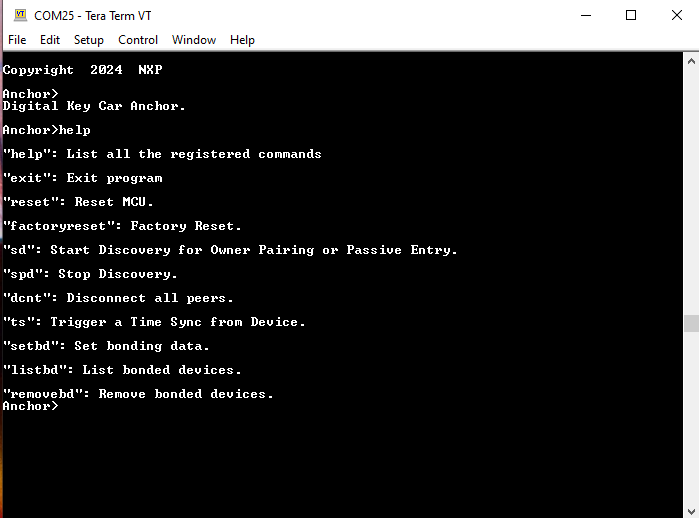
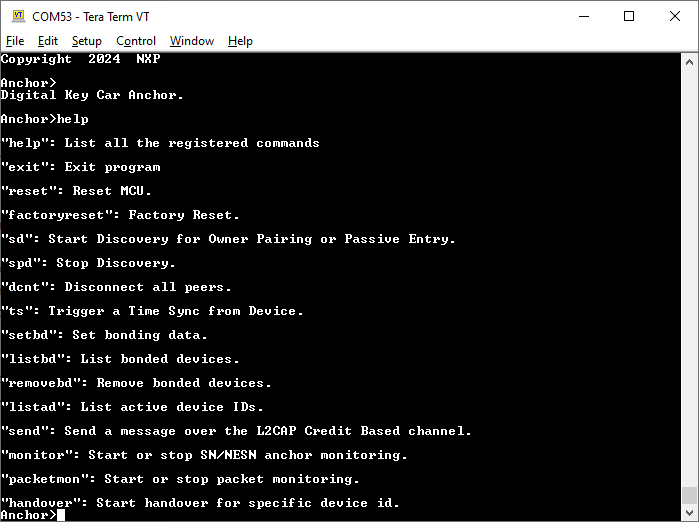
Pull request #3511: [BLUETOOTH-15418] Applications: Added shell commands to list peer devices and trigger connection handover.
Merge in CONNINT/bluetooth_public from feature/BLUETOOTH-15418-ccc-app-handover-add-shell-commands to develop/main

Squashed commit of the following:

commit 11905b5286c848907460e26f8840def160e9f7e3
Author: Cosmin Grumei <cosmin-teodor.grumei@nxp.com>
Date:   Thu May 15 15:03:05 2025 +0300

    [BLUETOOTH-15418] Documentation: Updated documentation with handover and listad commands

commit 2874e0d39a034dedc02935a712a55ca2f316908e
Author: Cosmin Grumei <cosmin-teodor.grumei@nxp.com>
Date:   Tue May 13 11:45:13 2025 +0300

    [BLUETOOTH-15418] Applications: Removed whitespaces, fixed typos and print shell prompt after devices are listed.

commit 74971d2e16cd6a14c1b8da997c81e0d26ce62b82
Author: Cosmin Grumei <cosmin-teodor.grumei@nxp.com>
Date:   Mon May 12 16:35:00 2025 +0300

    [BLUETOOTH-15418] Applications: Added shell commands to list peer devices and trigger connection handover.

Changed region(s): [[0.0, 0.0, 1.0, 1.0], [0.1202, 0.8649, 0.5708, 0.9266], [0.8712, 0.0, 0.9313, 0.0309]]

diff --git a/examples/digital_key_car_anchor/shell_digital_key_car_anchor.c b/examples/digital_key_car_anchor/shell_digital_key_car_anchor.c
@@ -5,7 +5,7 @@
 /*! *********************************************************************************
 * \file shell_digital_key_car_anchor.c
 *
-* Copyright 2021-2024 NXP
+* Copyright 2021-2025 NXP
 *
 * SPDX-License-Identifier: BSD-3-Clause
 ********************************************************************************** */
@@ -59,11 +59,12 @@ static shell_status_t ShellTriggerTimeSync_Command(shell_handle_t shellHandle, i
 static shell_status_t ShellSetBondingData_Command(shell_handle_t shellHandle, int32_t argc, char * argv[]);
 static shell_status_t ShellListBondedDev_Command(shell_handle_t shellHandle, int32_t argc, char * argv[]);
 static shell_status_t ShellRemoveBondedDev_Command(shell_handle_t shellHandle, int32_t argc, char * argv[]);
-
+static shell_status_t ShellListActiveDev_Command(shell_handle_t shellHandle, int32_t argc, char * argv[]);
 #if defined(gHandoverDemo_d) && (gHandoverDemo_d == 1)
 static shell_status_t ShellHandoverSendL2cap_Command(shell_handle_t shellHandle, int32_t argc, char * argv[]);
 static shell_status_t ShellHandoverAnchorMonitor_Command(shell_handle_t shellHandle, int32_t argc, char * argv[]);
 static shell_status_t ShellHandoverPacketMonitor_Command(shell_handle_t shellHandle, int32_t argc, char * argv[]);
+static shell_status_t ShellHandoverDevId_Command(shell_handle_t shellHandle, int32_t argc, char * argv[]);
 #endif /* gHandoverDemo_d */
 
 static uint8_t BleApp_ParseHexValue(char* pInput);
@@ -144,6 +145,15 @@ static shell_command_t mListBondedDevCmd =
     .pcHelpString = "\r\n\"listbd\": List bonded devices.\r\n",
 };
 
+static shell_command_t mListActiveDevCmd =
+{
+    .pcCommand = "listad",
+    .cExpectedNumberOfParameters = 0,
+    .pFuncCallBack = ShellListActiveDev_Command,
+    .pcHelpString = "\r\n\"listad\": List active device IDs.\r\n",
+};
+
+
 static shell_command_t mRemoveBondedDevCmd =
 {
     .pcCommand = "removebd",
@@ -175,6 +185,14 @@ static shell_command_t mHandoverPacketMonitorCmd =
     .cExpectedNumberOfParameters = SHELL_IGNORE_PARAMETER_COUNT,
     .pFuncCallBack = ShellHandoverPacketMonitor_Command,
     .pcHelpString = "\r\n\"packetmon\": Start or stop packet monitoring.\r\n",
+};
+
+static shell_command_t mHandoverDevIdCmd =
+{
+    .pcCommand = "handover",
+    .cExpectedNumberOfParameters = SHELL_IGNORE_PARAMETER_COUNT,
+    .pFuncCallBack = ShellHandoverDevId_Command,
+    .pcHelpString = "\r\n\"handover\": Start handover for specific device id.\r\n",
 };
 #endif /* gHandoverDemo_d */
 
@@ -223,12 +241,17 @@ void AppShellInit(char* prompt)
     assert(kStatus_SHELL_Success == status);
     status = SHELL_RegisterCommand((shell_handle_t)g_shellHandle, &mRemoveBondedDevCmd);
     assert(kStatus_SHELL_Success == status);
+    status = SHELL_RegisterCommand((shell_handle_t)g_shellHandle, &mListActiveDevCmd);
+    assert(kStatus_SHELL_Success == status);   
+       
 #if defined(gHandoverDemo_d) && (gHandoverDemo_d == 1)
     status = SHELL_RegisterCommand((shell_handle_t)g_shellHandle, &mHandoverSendL2capCmd);
     assert(kStatus_SHELL_Success == status);
     status = SHELL_RegisterCommand((shell_handle_t)g_shellHandle, &mHandoverAnchorMonitorCmd);
     assert(kStatus_SHELL_Success == status);
     status = SHELL_RegisterCommand((shell_handle_t)g_shellHandle, &mHandoverPacketMonitorCmd);
+    assert(kStatus_SHELL_Success == status);
+    status = SHELL_RegisterCommand((shell_handle_t)g_shellHandle, &mHandoverDevIdCmd);
     assert(kStatus_SHELL_Success == status);
 #endif /* gHandoverDemo_d */
 #endif
@@ -607,6 +630,32 @@ static shell_status_t ShellListBondedDev_Command(shell_handle_t shellHandle, int
     }
     return kStatus_SHELL_Success;
 }
+                    
+                    
+/*! *********************************************************************************
+* \brief        List active devices.
+*
+* \param[in]    argc           Number of arguments
+* \param[in]    argv           Pointer to arguments
+*
+* \return       shell_status_t  Returns the command processing status
+********************************************************************************** */
+static shell_status_t ShellListActiveDev_Command(shell_handle_t shellHandle, int32_t argc, char * argv[])
+{
+    if(mpfShellEventHandler != NULL)
+    {
+        appEventData_t *pEventData = MEM_BufferAlloc(sizeof(appEventData_t));
+        if(pEventData != NULL)
+        {
+            pEventData->appEvent = mAppEvt_Shell_ListActiveDev_Command_c;
+            if (gBleSuccess_c != App_PostCallbackMessage(mpfShellEventHandler, pEventData))
+            {
+               (void)MEM_BufferFree(pEventData);
+            }
+        }
+    }
+    return kStatus_SHELL_Success;
+}
 
 /*! *********************************************************************************
 * \brief        remove bonded devices.
@@ -811,6 +860,45 @@ static shell_status_t ShellHandoverPacketMonitor_Command(shell_handle_t shellHan
     else
     {
             shell_write("\r\nUsage: packetmon deviceId start|stop\r\n");
+    }
+    return kStatus_SHELL_Success;
+}
+                    
+/*! *********************************************************************************
+* \brief        Trigger Connection Handover for the specified peer device.
+*
+* \param[in]    argc           Number of arguments
+* \param[in]    argv           Pointer to arguments
+*
+* \return       shell_status_t  Returns the command processing status
+********************************************************************************** */                 
+static shell_status_t ShellHandoverDevId_Command(shell_handle_t shellHandle, int32_t argc, char * argv[])
+{
+    if (argc == 2)
+    {
+        if(mpfShellEventHandler != NULL)
+        {
+            appEventData_t *pEventData = MEM_BufferAlloc(sizeof(appEventData_t));
+            if(pEventData != NULL)
+            {
+                pEventData->appEvent = mAppEvt_Shell_Handover_Command_c;
+                if ( sizeof(uint8_t) == BleApp_ParseHexValue(argv[1]) )
+                {
+                    /* Store device id to be used for handover in eventData.peerDeviceId  */
+                    pEventData->eventData.peerDeviceId = (uint8_t)*argv[1];
+                    if (gBleSuccess_c != App_PostCallbackMessage(mpfShellEventHandler, pEventData))
+                    {
+                       (void)MEM_BufferFree(pEventData);
+                    }
+                }
+            }
+        }
+    }
+    else
+    {
+        shell_write("\r\nUsage: \
+                    \r\nhandover deviceId \
+                    \r\n");
     }
     return kStatus_SHELL_Success;
 }

diff --git a/examples/digital_key_car_anchor/app_digital_key_car_anchor.c b/examples/digital_key_car_anchor/app_digital_key_car_anchor.c
@@ -849,7 +849,59 @@ void App_HandleShellCmds(void *pData)
             App_HandleBondShellCmds(pData);
         }
         break;
+        
+        case mAppEvt_Shell_ListActiveDev_Command_c:
+        {
+            bool_t found = FALSE;
+            bool_t  peerBonded = FALSE;
+            uint8_t peerNvmIndex = 0U;
+            bleResult_t result = gBleUnavailable_c;
+            gapSmpKeys_t outKeys = {};
+            gapSmpKeyFlags_t outKeyFlags = 0U;
+            bool_t outLeSc = FALSE;
+            bool_t outAuth = FALSE;
+            uint8_t aBleDeviceAddress[gcBleDeviceAddressSize_c] = {};
+            outKeys.aAddress = aBleDeviceAddress;
 
+            shell_write("\r\nDevId      AddrType    Address\r\n");
+            for (uint32_t i = 0U; i < gAppMaxConnections_c; i++)
+            {
+                if (maPeerInformation[i].deviceId == gInvalidDeviceId_c)
+                {
+                    continue;
+                }
+
+                result = Gap_CheckIfBonded(maPeerInformation[i].deviceId , &peerBonded, &peerNvmIndex);
+
+                if ((result == gBleSuccess_c) && (peerBonded == TRUE))
+                {
+                    result = Gap_LoadKeys(peerNvmIndex, &outKeys, &outKeyFlags, &outLeSc, &outAuth);
+                }
+                else
+                {
+                    result = gBleUnavailable_c;
+                }
+
+                if (result == gBleSuccess_c)
+                {
+                    shell_writeHex((uint8_t*)&maPeerInformation[i].deviceId, sizeof(uint8_t));
+                    shell_write("         ");
+                    shell_writeHex((uint8_t*)&outKeys.addressType, sizeof(uint8_t));
+                    shell_write("          ");
+                    shell_writeHex((uint8_t*)&outKeys.aAddress, gcBleDeviceAddressSize_c);
+                    shell_write("\r\n");
+                    found = TRUE;
+                }
+            }
+
+            if(found == FALSE)
+            {
+                shell_write(" No active devices ");
+            }
+
+            shell_cmd_finished();
+        }
+        break;
 #if defined(gHandoverDemo_d) && (gHandoverDemo_d == 1)
         case mAppEvt_Shell_HandoverSendL2cap_Command_c:
         {
@@ -899,8 +951,34 @@ void App_HandleShellCmds(void *pData)
             }
         }
         break;
-#endif
         
+        
+        case mAppEvt_Shell_Handover_Command_c:
+        {
+            bleResult_t result = gBleInvalidParameter_c;
+            deviceId_t handoverDeviceId = pEventData->eventData.peerDeviceId;
+            shell_write("\r\nHandover started.\r\n");
+
+            if (maPeerInformation[handoverDeviceId].deviceId == gInvalidDeviceId_c)
+            {
+                shell_write("\r\n Handover device id error.\r\n");
+                result = gBleInvalidState_c;
+            }
+            else
+            {
+                AppHandover_SetPeerDevice(maPeerInformation[handoverDeviceId].deviceId);
+                result = AppHandover_StartTimeSync(TRUE);
+            }
+
+            if (result != gBleSuccess_c)
+            {
+                shell_write("\r\nHandover time synchronization error.\r\n");
+                shell_cmd_finished();
+            }
+        }
+        break;
+#endif
+
         default:
         {
             ; /* No action required */

diff --git a/examples/digital_key_car_anchor/digital_key_car_anchor.h b/examples/digital_key_car_anchor/digital_key_car_anchor.h
@@ -5,7 +5,7 @@
 /*! *********************************************************************************
 * \file digital_key_car_anchor.h
 *
-* Copyright 2020-2024 NXP
+* Copyright 2020-2025 NXP
 *
 * SPDX-License-Identifier: BSD-3-Clause
 ********************************************************************************** */
@@ -66,6 +66,7 @@ typedef enum appEvent_tag{
     mAppEvt_Shell_SetBondingData_Command_c,
     mAppEvt_Shell_ListBondedDev_Command_c,
     mAppEvt_Shell_RemoveBondedDev_Command_c,
+    mAppEvt_Shell_ListActiveDev_Command_c,
     mAppEvt_AdvertisingStartedLegacy_c,
     mAppEvt_AdvertisingStartedExtendedLR_c,
     mAppEvt_AdvertisingStopped_c,

diff --git a/doc/Bluetooth Low Energy CCC Digital Key Application Note/topics/running_the_connection_handover_scenario.md b/doc/Bluetooth Low Energy CCC Digital Key Application Note/topics/running_the_connection_handover_scenario.md
@@ -19,7 +19,7 @@ The CCC Digital Key demos showcase the Connection Handover feature. The handover
 
 -   Connect a Car Anchor and a Device using either the Owner Pairing or Passive Entry scenario as detailed in the previous sections. If doing Owner Pairing, the bonding data synchronization between the two Car Anchors will happen automatically over the UART connection.
 -   Optional: Use the "`send`" shell command on the Car Anchor to send a test message over the L2CAP Credit-Based channel. The message is displayed in the console on the Device.
--   Press the **SW3** switch on the Car Anchor which is connected to the Device.
+-   Press the **SW3** switch or use the `handover` command with the peer device ID on the Car Anchor which is connected to the Device. To see a list of connected devices with their corresponding peer device IDs the `listad` command may be used.
 -   The connection is handed over to the second Car Anchor as seen in console messages. LED2 also turns solid blue on the Car Anchor, which has taken over the connection.
 -   **Optional**: Use the "`send`" shell command on the Car Anchor that has taken over the connection. The message is displayed in the console on the Device.
 -   The connection can continue to be handed over back and forth between the two Car Anchors by pressing the **SW3** switch on the Car Anchor which currently has the connection. [Figure 2](../images/handover_s1.png) shows first Car Anchor connects and pairs with the Device, sends the L2CAP test message and successfully performs handover when **SW3** is pressed.
